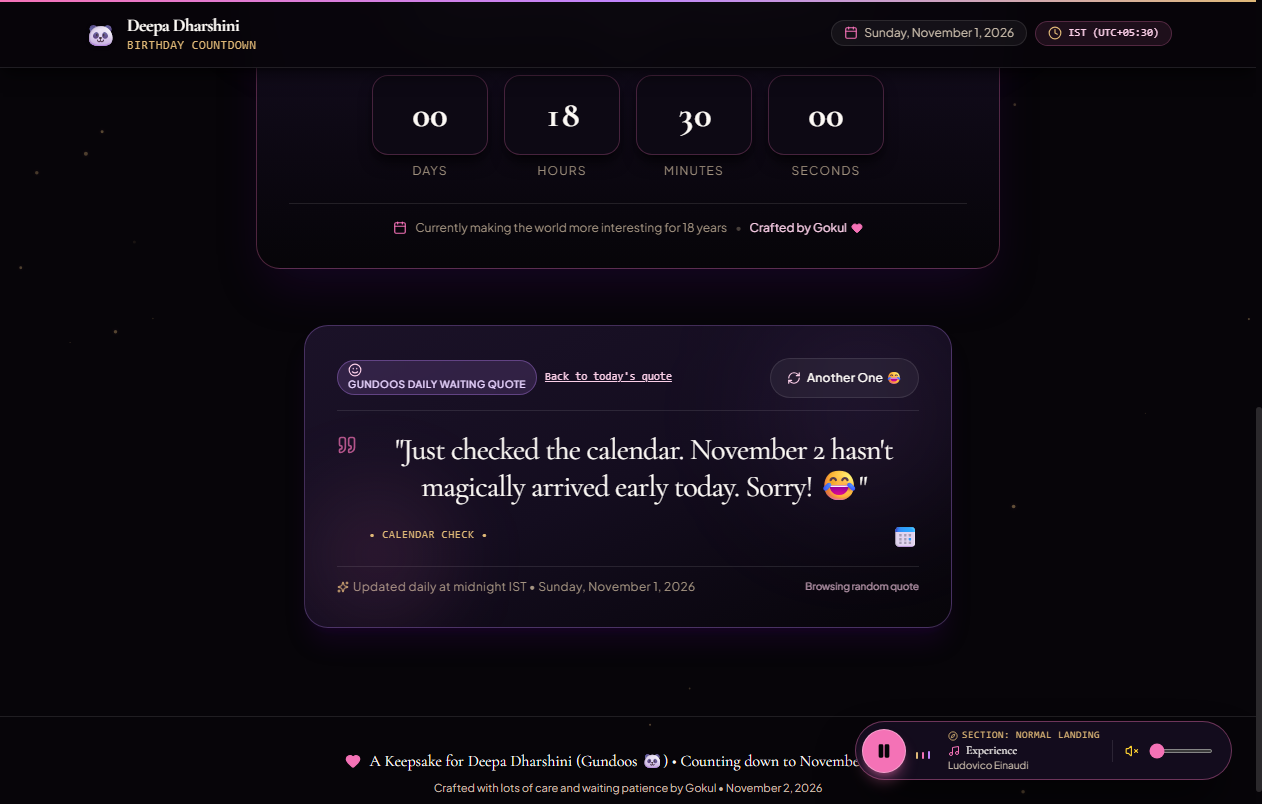
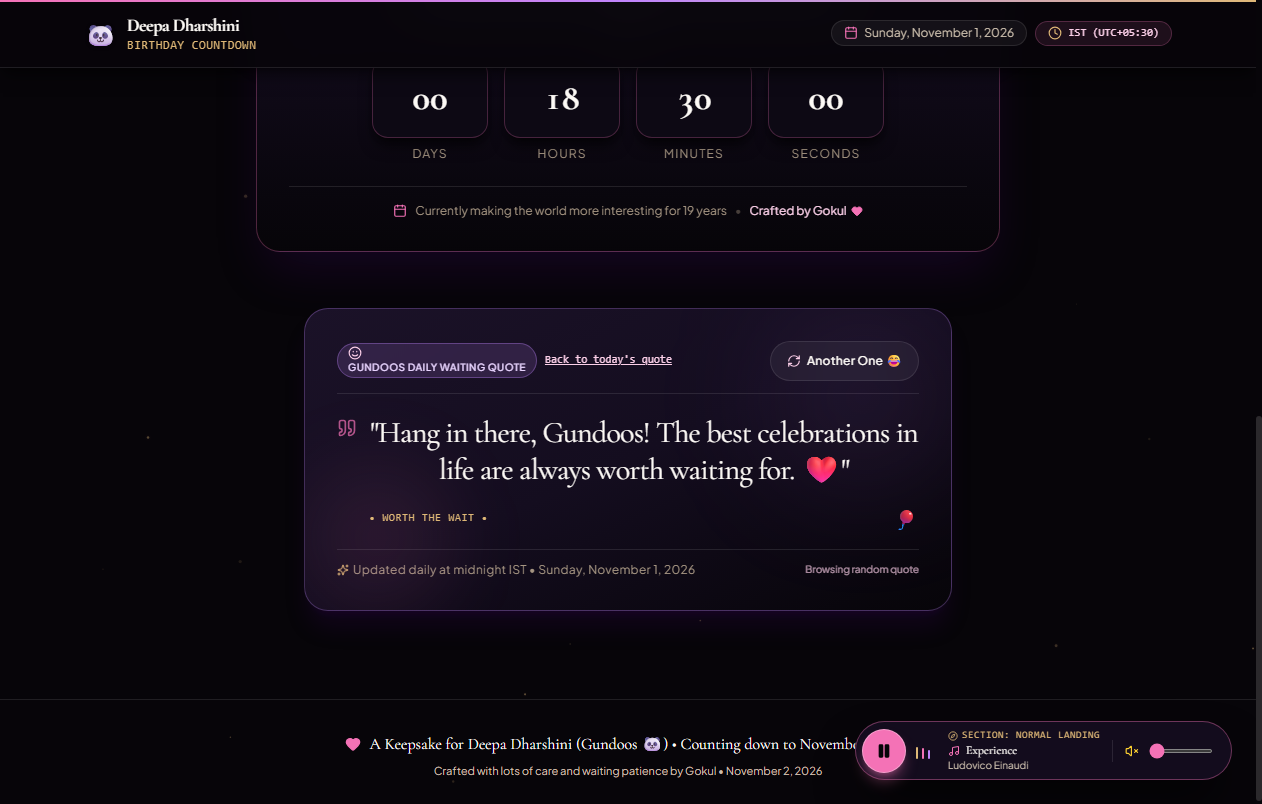
change the years and age

diff --git a/scripts/testBirthdayUtils.js b/scripts/testBirthdayUtils.js
@@ -13,7 +13,7 @@ console.log('========================================================');
 console.log('   RUNNING NORMAL MODE & BIRTHDAY SURPRISE MODE TESTS   ');
 console.log('========================================================\n');
 
-// Test Case 1: Nov 1, 2026 -> Normal Mode, Age 18, Countdown targeting Nov 2, 2026
+// Test Case 1: Nov 1, 2026 -> Normal Mode, Age 19, Countdown targeting Nov 2, 2026
 {
   const testDate = new Date('2026-11-01T12:00:00+05:30');
   const isBday = isBirthdayToday(testDate);
@@ -31,15 +31,15 @@ console.log('========================================================\n');
   });
 
   assert.strictEqual(isBday, false, 'Nov 1, 2026 must be NORMAL MODE');
-  assert.strictEqual(age, 18, 'Nov 1, 2026 current age must be 18');
-  assert.strictEqual(cd.turningAge, 19, 'Stepping into 19');
+  assert.strictEqual(age, 19, 'Nov 1, 2026 current age must be 19');
+  assert.strictEqual(cd.turningAge, 20, 'Stepping into 20');
   assert.strictEqual(cd.days, 0, '0 full days left (< 24h)');
   assert.strictEqual(cd.hours, 12, '12 hours remaining');
   assert.ok(quote.text.length > 0, 'Daily quote is present');
   console.log('✓ Test 1 Passed: Nov 1, 2026 = Normal mode + countdown + daily funny quote');
 }
 
-// Test Case 2: Nov 2, 2026 -> Birthday Surprise Mode, Age 19
+// Test Case 2: Nov 2, 2026 -> Birthday Surprise Mode, Age 20
 {
   const testDate = new Date('2026-11-02T00:00:00+05:30');
   const isBday = isBirthdayToday(testDate);
@@ -53,7 +53,7 @@ console.log('========================================================\n');
   });
 
   assert.strictEqual(isBday, true, 'Nov 2, 2026 must be BIRTHDAY SURPRISE MODE');
-  assert.strictEqual(age, 19, 'Nov 2, 2026 current age must be 19');
+  assert.strictEqual(age, 20, 'Nov 2, 2026 current age must be 20');
   assert.strictEqual(cd.isBirthdayToday, true);
   console.log('✓ Test 2 Passed: Nov 2, 2026 = Full birthday surprise experience');
 }
@@ -75,14 +75,14 @@ console.log('========================================================\n');
   });
 
   assert.strictEqual(isBday, false, 'Nov 3, 2026 must be NORMAL MODE');
-  assert.strictEqual(age, 19, 'Nov 3, 2026 current age is 19');
+  assert.strictEqual(age, 20, 'Nov 3, 2026 current age is 20');
   assert.strictEqual(nextYear, 2027, 'Target birthday rolled over to 2027');
-  assert.strictEqual(cd.turningAge, 20, 'Next turning age is 20');
+  assert.strictEqual(cd.turningAge, 21, 'Next turning age is 21');
   assert.strictEqual(cd.days, 364, '364 days remaining to Nov 2, 2027');
   console.log('✓ Test 3 Passed: Nov 3, 2026 = Normal mode + countdown to 2027');
 }
 
-// Test Case 4: Nov 1, 2027 -> Normal Mode, Age 19, Countdown to Nov 2, 2027
+// Test Case 4: Nov 1, 2027 -> Normal Mode, Age 20, Countdown to Nov 2, 2027
 {
   const testDate = new Date('2027-11-01T12:00:00+05:30');
   const isBday = isBirthdayToday(testDate);
@@ -97,12 +97,12 @@ console.log('========================================================\n');
   });
 
   assert.strictEqual(isBday, false, 'Nov 1, 2027 must be NORMAL MODE');
-  assert.strictEqual(age, 19, 'Nov 1, 2027 age is 19');
-  assert.strictEqual(cd.turningAge, 20, 'Turning 20');
+  assert.strictEqual(age, 20, 'Nov 1, 2027 age is 20');
+  assert.strictEqual(cd.turningAge, 21, 'Turning 21');
   console.log('✓ Test 4 Passed: Nov 1, 2027 = Normal mode');
 }
 
-// Test Case 5: Nov 2, 2027 -> Birthday Surprise Mode, Age 20
+// Test Case 5: Nov 2, 2027 -> Birthday Surprise Mode, Age 21
 {
   const testDate = new Date('2027-11-02T16:00:00+05:30');
   const isBday = isBirthdayToday(testDate);
@@ -116,12 +116,12 @@ console.log('========================================================\n');
   });
 
   assert.strictEqual(isBday, true, 'Nov 2, 2027 must be BIRTHDAY SURPRISE MODE');
-  assert.strictEqual(age, 20, 'Nov 2, 2027 age must be 20');
+  assert.strictEqual(age, 21, 'Nov 2, 2027 age must be 21');
   assert.strictEqual(cd.isBirthdayToday, true);
   console.log('✓ Test 5 Passed: Nov 2, 2027 = Full birthday surprise experience');
 }
 
-// Test Case 6: Feb 29, 2028 (Leap Year) -> Normal Mode, Age 20, Target 2028
+// Test Case 6: Feb 29, 2028 (Leap Year) -> Normal Mode, Age 21, Target 2028
 {
   const testDate = new Date('2028-02-29T12:00:00+05:30');
   const isBday = isBirthdayToday(testDate);
@@ -129,21 +129,21 @@ console.log('========================================================\n');
   const cd = getBirthdayCountdown(testDate);
 
   assert.strictEqual(isBday, false, 'Leap Day is NORMAL MODE');
-  assert.strictEqual(age, 20, 'Age on Feb 29, 2028 is 20');
-  assert.strictEqual(cd.turningAge, 21, 'Turning 21 in 2028');
+  assert.strictEqual(age, 21, 'Age on Feb 29, 2028 is 21');
+  assert.strictEqual(cd.turningAge, 22, 'Turning 22 in 2028');
   assert.strictEqual(cd.targetYear, 2028);
   console.log('✓ Test 6 Passed: Feb 29, 2028 (Leap year) handled correctly');
 }
 
-// Test Case 7: Nov 2, 2028 -> Birthday Surprise Mode, Age 21
+// Test Case 7: Nov 2, 2028 -> Birthday Surprise Mode, Age 22
 {
   const testDate = new Date('2028-11-02T10:00:00+05:30');
   const isBday = isBirthdayToday(testDate);
   const age = getCurrentAge(testDate);
 
   assert.strictEqual(isBday, true, 'Nov 2, 2028 must be BIRTHDAY SURPRISE MODE');
-  assert.strictEqual(age, 21, 'Nov 2, 2028 age must be 21');
-  console.log('✓ Test 7 Passed: Nov 2, 2028 = Age 21 Birthday Surprise Mode');
+  assert.strictEqual(age, 22, 'Nov 2, 2028 age must be 22');
+  console.log('✓ Test 7 Passed: Nov 2, 2028 = Age 22 Birthday Surprise Mode');
 }
 
 // Test Case 8: Daily Quote Determinism & Refresh Consistency

diff --git a/src/data/letterData.ts b/src/data/letterData.ts
@@ -33,13 +33,13 @@ export interface BirthdayLetterData {
 
 export const letterData: BirthdayLetterData = {
   subtitleHeading: "For the days when smiling feels a little difficult...",
-  teaserText: "A handwritten letter for your 19th birthday...",
+  teaserText: "A handwritten letter for your 20th birthday...",
   ctaText: "Open My Letter",
   title: "A Letter For You",
   salutation: "Hey Gundoos! 🐼❤",
 
   introParagraphs: [
-    "First of all, Happy 19th Birthday, Deepa! Another year older, and somehow you haven't run out of energy or things to talk about. 😂",
+    "First of all, Happy 20th Birthday, Deepa! Another year older, and somehow you haven't run out of energy or things to talk about. 😂",
     "I was thinking about what to write to you today. Sure, I could just tease you about the gym aunty incident or bring up that trending song you insisted I sing until it became your weapon to tease me. But today, on your birthday, I wanted to say something a little more honest and from the heart.",
   ],
 
@@ -75,7 +75,7 @@ export const letterData: BirthdayLetterData = {
   ],
 
   closingWishes: {
-    birthdayCelebrate: "Happy 19th Birthday, Gundoos! 🐼❤",
+    birthdayCelebrate: "Happy 20th Birthday, Gundoos! 🐼❤",
     tagline1: "Keep that smile. Keep that madness. Keep being YOU.",
     tagline2: "Celebrate yourself today—because you've been so strong, even on the quiet days when no one noticed.",
   },
@@ -86,7 +86,7 @@ export const letterData: BirthdayLetterData = {
 
   // Backward compatibility representation for text search / plain text checks
   paragraphs: [
-    "First of all, Happy 19th Birthday, Deepa! Another year older, and somehow you haven't run out of energy or things to talk about. 😂",
+    "First of all, Happy 20th Birthday, Deepa! Another year older, and somehow you haven't run out of energy or things to talk about. 😂",
     "I know this past phase hasn't been easy on you. You've had to navigate moments that hurt quietly, situations with people you considered family where silence replaced conversations, and memories from your past that still leave an ache.",
     "Their leaving doesn't reduce your worth. Someone else's inability to appreciate your heart does not mean you lack value.",
     "Your past doesn't decide your future. Those chapters taught you resilience, but they don't dictate what kind of happiness and genuine friendships you will find ahead.",
@@ -95,7 +95,7 @@ export const letterData: BirthdayLetterData = {
     "You don't have to hide your pain or pretend everything is okay around me. I'm here as your friend, without expectations or pressure. You don't have to face every difficult day alone.",
     "I'm here, okay?",
     "You deserve genuine friendships, genuine happiness, peace, and relationships where you can simply be yourself.",
-    "Happy 19th Birthday, Gundoos! 🐼❤",
+    "Happy 20th Birthday, Gundoos! 🐼❤",
     "Keep that smile. Keep that madness. Keep being YOU.",
   ],
 };

diff --git a/scripts/browserQA.js b/scripts/browserQA.js
@@ -413,7 +413,7 @@ async function runQA() {
     // 6. Cinematic Intro on November 2
     await client.waitFor(`(document.querySelector('h1')?.innerText || '').length > 0`);
     const introHeading = await client.eval(`document.querySelector('h1')?.innerText`);
-    const introBadge = await client.eval(`document.body.innerText.includes('19TH BIRTHDAY')`);
+    const introBadge = await client.eval(`document.body.innerText.includes('20TH BIRTHDAY')`);
     const introMusic = await client.eval(`document.querySelector('aside[aria-label="Background music controls"]')?.innerText || ''`);
     const introHasCornfield = introMusic.includes('Cornfield Chase') && introMusic.toLowerCase().includes('cinematic intro');
 
@@ -438,7 +438,7 @@ async function runQA() {
     const heroMusic = await client.eval(`document.querySelector('aside[aria-label="Background music controls"]')?.innerText || ''`);
     const heroHasColdplay = heroMusic.includes('A Sky Full of Stars') && heroMusic.toLowerCase().includes('birthday hero');
 
-    if (bdayHeroHeadline.includes('Happiest 19th Birthday') && bdayHeroHeadline.includes('Deepa!') && heroHasColdplay) {
+    if (bdayHeroHeadline.includes('Happiest 20th Birthday') && bdayHeroHeadline.includes('Deepa!') && heroHasColdplay) {
       record('7. Birthday Mode Hero Reveal & Music', 'PASS', `Celebration hero mounted with "A Sky Full of Stars" (Birthday Hero)`);
     } else {
       record('7. Birthday Mode Hero Reveal & Music', 'FAIL', `Hero headline: "${bdayHeroHeadline}", heroMusic: "${heroMusic}"`);
@@ -527,7 +527,7 @@ async function runQA() {
     const hasHereEmphasis = letterContent.includes("I'm here, okay?");
     const hasPersonalMsg = letterContent.includes("annoy you with my usual nonsense") && letterContent.includes("here as your friend, without expectations or pressure");
     const hasClosingTagline = letterContent.includes("Keep that smile. Keep that madness. Keep being YOU.");
-    const hasBirthdayWish = letterContent.includes("Happy 19th Birthday, Gundoos! 🐼❤");
+    const hasBirthdayWish = letterContent.includes("Happy 20th Birthday, Gundoos! 🐼❤");
 
     const allLetterChecksPassed = hasSalutation && hasSender && hasHeadingPrompt && hasWorthEmphasis &&
       hasFutureEmphasis && hasStrengthEmphasis && hasHereEmphasis && hasPersonalMsg && hasClosingTagline && hasBirthdayWish;

diff --git a/src/components/layout/Navbar.tsx b/src/components/layout/Navbar.tsx
@@ -3,6 +3,7 @@ import { motion, useScroll, useSpring } from 'framer-motion';
 import { RefreshCw, Sparkles } from 'lucide-react';
 import { Container } from '../common/Container';
 import { Button } from '../common/Button';
+import { getBirthdayCountdown } from '@/utils/birthday';
 
 export interface NavItem {
   id: string;
@@ -27,6 +28,8 @@ export interface NavbarProps {
 export const Navbar: React.FC<NavbarProps> = ({ onReplayIntro }) => {
   const [activeSection, setActiveSection] = useState<string>('hero');
   const [isScrolled, setIsScrolled] = useState<boolean>(false);
+  const { currentAge, turningAge, isBirthdayToday } = getBirthdayCountdown();
+  const celebratedAge = isBirthdayToday ? currentAge : turningAge;
 
   // Framer Motion Scroll Progress Bar
   const { scrollYProgress } = useScroll();
@@ -99,14 +102,14 @@ export const Navbar: React.FC<NavbarProps> = ({ onReplayIntro }) => {
         <button
           onClick={() => scrollToSection('hero')}
           className="flex items-center gap-2.5 cursor-pointer group text-left focus-visible:outline-none focus-visible:ring-2 focus-visible:ring-[#f472b6] rounded-full px-1"
-          aria-label={`Scroll to home - Deepa's 19th Birthday`}
+          aria-label={`Scroll to home - Deepa's ${celebratedAge}th Birthday`}
         >
           <div className="w-8 h-8 rounded-full bg-[#f472b6]/20 border border-[#f472b6]/40 flex items-center justify-center transition-transform group-hover:scale-105">
             <span className="text-sm">🐼</span>
           </div>
           <div className="flex flex-col">
             <span className="font-serif text-sm sm:text-base tracking-wide text-[#fdfaf6] truncate leading-tight">
-              Deepa's 19th Keepsake
+              Deepa's {celebratedAge}th Keepsake
             </span>
             <span className="text-[10px] text-[#fbcfe8] font-sans font-normal hidden sm:inline">
               Nov 2, 2026 • Gundoos

diff --git a/src/components/features/LetterSection.tsx b/src/components/features/LetterSection.tsx
@@ -67,7 +67,7 @@ export const LetterSection: React.FC = () => {
                   level={3}
                   className="text-xl sm:text-2xl font-serif text-[#fdfaf6] mb-3 leading-relaxed"
                 >
-                  {letterData.teaserText.replace(/19th/g, `${celebratedAge}th`)}
+                  {letterData.teaserText.replace(/19th|20th/gi, `${celebratedAge}th`)}
                 </Heading>
 
                 <Paragraph size="sm" className="text-[#cbbead] mb-8">
@@ -136,7 +136,7 @@ export const LetterSection: React.FC = () => {
 
                   {/* Intro Paragraphs */}
                   {letterData.introParagraphs.map((para, idx) => {
-                    const dynamicText = para.replace(/19th/gi, `${celebratedAge}th`);
+                    const dynamicText = para.replace(/19th|20th/gi, `${celebratedAge}th`);
                     return (
                       <motion.div key={`intro-${idx}`} variants={fadeUp}>
                         <Paragraph
@@ -267,12 +267,12 @@ export const LetterSection: React.FC = () => {
                     variants={fadeUp}
                     className="pt-8 border-t border-white/10 space-y-4"
                   >
-                    {/* "Happy 19th Birthday, Gundoos! 🐼❤" */}
+                    {/* "Happy 20th Birthday, Gundoos! 🐼❤" */}
                     <Heading
                       level={2}
                       className="text-2xl sm:text-4xl font-serif text-gradient-rose font-bold"
                     >
-                      {letterData.closingWishes.birthdayCelebrate.replace(/19th/gi, `${celebratedAge}th`)}
+                      {letterData.closingWishes.birthdayCelebrate.replace(/19th|20th/gi, `${celebratedAge}th`)}
                     </Heading>
 
                     {/* "Keep that smile. Keep that madness. Keep being YOU." */}

diff --git a/index.html b/index.html
@@ -4,8 +4,8 @@
     <meta charset="UTF-8" />
     <link rel="icon" type="image/svg+xml" href="/favicon.svg" />
     <meta name="viewport" content="width=device-width, initial-scale=1.0" />
-    <meta name="description" content="Happiest 19th Birthday, Deepa Dharshini! A special keepsake celebrating your journey, memories, and wonderful spirit." />
-    <title>Happiest 19th Birthday, Deepa! ✨ | A Keepsake from Gokul</title>
+    <meta name="description" content="Happiest 20th Birthday, Deepa Dharshini! A special keepsake celebrating your journey, memories, and wonderful spirit." />
+    <title>Happiest 20th Birthday, Deepa! ✨ | A Keepsake from Gokul</title>
     <link rel="preconnect" href="https://fonts.googleapis.com">
     <link rel="preconnect" href="https://fonts.gstatic.com" crossorigin>
     <link href="https://fonts.googleapis.com/css2?family=Cormorant+Garamond:ital,wght@0,400;0,600;0,700;1,400&family=Playfair+Display:ital,wght@0,400..800;1,400..800&family=Plus+Jakarta+Sans:wght@300;400;500;600;700&display=swap" rel="stylesheet">

diff --git a/src/data/timelineData.ts b/src/data/timelineData.ts
@@ -66,7 +66,7 @@ export const timelineItems: TimelineItem[] = [
     title: "Little Moments That Matter",
     subtitle: "Small conversations and memories became meaningful",
     description:
-      "Today, it's not the grand gestures that define us, but the small everyday moments — the teasing remarks, your uncanny emotional intuition, your cheerful laughter, and the comfort of knowing there's someone who genuinely listens. Stepping into your 19th year, I'm simply grateful our paths intertwined.",
+      "Today, it's not the grand gestures that define us, but the small everyday moments — the teasing remarks, your uncanny emotional intuition, your cheerful laughter, and the comfort of knowing there's someone who genuinely listens. Stepping into your 20th year, I'm simply grateful our paths intertwined.",
     tag: "Looking Ahead",
     badge: "Present & Beyond",
     iconName: "Heart",

diff --git a/src/config/siteConfig.ts b/src/config/siteConfig.ts
@@ -4,13 +4,13 @@ export const siteConfig: SiteConfig = {
   recipientName: "Deepa Dharshini",
   nickname: "Gundoos 🐼",
   senderName: "Gokul",
-  birthDate: "2007-11-02",
+  birthDate: "2006-11-02",
   celebrationDate: "2026-11-02",
-  milestoneAge: 19,
+  milestoneAge: 20,
 
   hero: {
-    label: "A SPECIAL KEEPSAKE FOR YOUR 19TH",
-    title: "Happiest 19th Birthday, Deepa! ❤",
+    label: "A SPECIAL KEEPSAKE FOR YOUR 20TH",
+    title: "Happiest 20th Birthday, Deepa! ❤",
     subtitle: "Today is all about celebrating the beautiful person you are.",
     description:
       "From community team coordination to late-night phone calls, endless banter, and non-stop teasing — here is a digital keepsake crafted with care, just for you.",

diff --git a/src/components/features/NormalModeLanding.tsx b/src/components/features/NormalModeLanding.tsx
@@ -6,6 +6,7 @@ import {
   getCurrentAge,
   getNextBirthdayYear,
   getFormattedCurrentISTDate,
+  BIRTH_YEAR,
 } from '@/utils/birthday';
 import { Container } from '../common/Container';
 import { Heading, Subheading, Paragraph, GradientText } from '../common/Typography';
@@ -24,7 +25,7 @@ export interface NormalModeLandingProps {
 export const NormalModeLanding: React.FC<NormalModeLandingProps> = ({ injectedDate }) => {
   const currentAge = getCurrentAge(injectedDate);
   const targetYear = getNextBirthdayYear(injectedDate);
-  const turningAge = targetYear - 2007;
+  const turningAge = targetYear - BIRTH_YEAR;
   const currentISTDate = getFormattedCurrentISTDate(injectedDate);
   const nickname = siteConfig.nickname || 'Gundoos 🐼';
 

diff --git a/src/data/memoriesData.ts b/src/data/memoriesData.ts
@@ -20,8 +20,8 @@ export interface MemoryPhotoItem {
 export const memoriesData: MemoryPhotoItem[] = [
   {
     id: "mem-1",
-    title: "19th Birthday Milestone",
-    caption: "A digital frame saved for Deepa's 19th birthday smile.",
+    title: "20th Birthday Milestone",
+    caption: "A digital frame saved for Deepa's 20th birthday smile.",
     date: "November 2, 2026",
     image: photo1,
     category: "Birthday Keepsake",
@@ -70,7 +70,7 @@ export const memoriesData: MemoryPhotoItem[] = [
   },
   {
     id: "mem-6",
-    title: "Stepping into 19",
+    title: "Stepping into 20",
     caption: "Wishing you a year full of happiness, peace, good health, and success in everything.",
     date: "New Chapter",
     image: photo6,

diff --git a/src/data/finaleData.ts b/src/data/finaleData.ts
@@ -11,7 +11,7 @@ export const finaleData: FinaleData = {
   teaserText: "Before you leave... there is one last thing.",
   ctaText: "Open The Final Surprise ✨",
   mainTitle: "One Last Thing, Gundoos... 🐼",
-  subtitle: "Here's to stepping into 19 with all the happiness you deserve.",
+  subtitle: "Here's to stepping into 20 with all the happiness you deserve.",
   finalMessage: [
     "Among all the unexpected connections in life, I'm really glad our paths crossed.",
     "Thank you for the conversations, the laughter, the teasing, and all those little moments that made ordinary days feel special.",

diff --git a/src/utils/birthday.ts b/src/utils/birthday.ts
@@ -1,8 +1,9 @@
 // Dynamic Birthday & Timezone Utilities for Deepa Dharshini
 // Timezone: Asia/Kolkata (IST = UTC+05:30)
-// Date of Birth: November 2, 2007 (2007-11-02)
+// Date of Birth: November 2, 2006 (2006-11-02)
 
-export const BIRTH_YEAR = 2007;
+export const BIRTHDAY_DATE = '2006-11-02';
+export const BIRTH_YEAR = 2006;
 export const BIRTH_MONTH = 11; // November
 export const BIRTH_DAY = 2;
 export const TIMEZONE = 'Asia/Kolkata';
